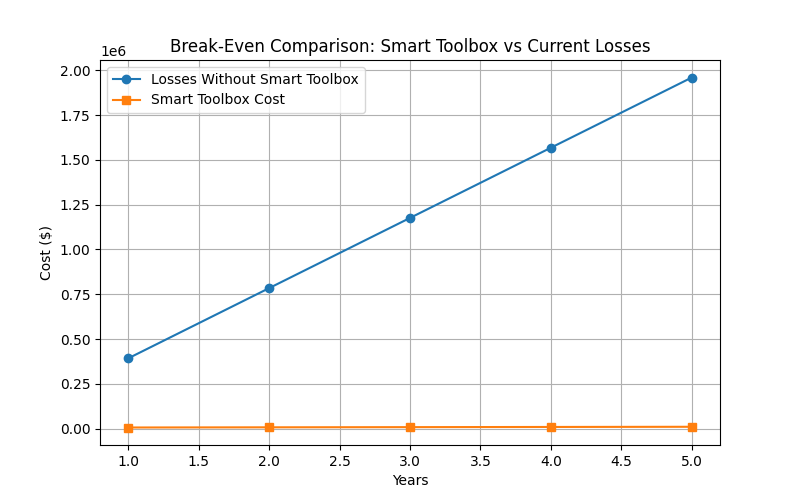
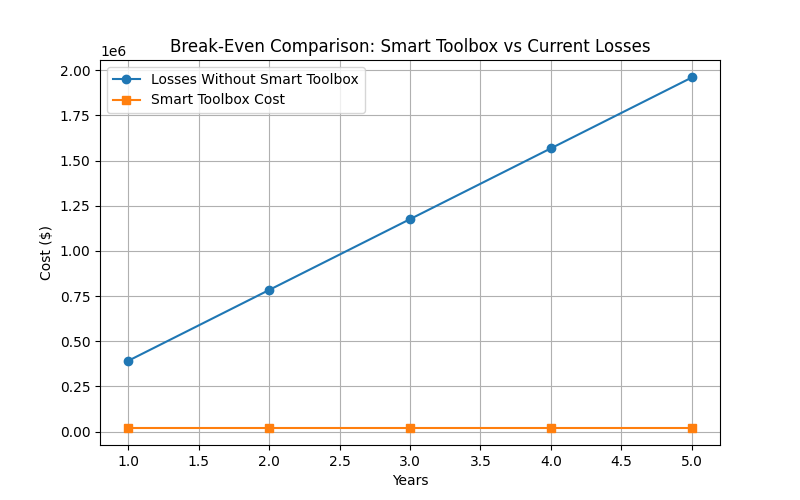
changed numbers for single toolkits for 75 people

diff --git a/main.py b/main.py
@@ -13,8 +13,8 @@ tools_lost_per_week = 1
 tools_lost_per_month = tools_lost_per_week * 4
 
 # smart toolbox estimated cost
-smart_toolbox_cost = 6000
-annual_maintenance = 1000
+smart_toolbox_cost = 23000
+annual_maintenance = 0
 
 # labor downtime from missing tools
 tech_count = 75